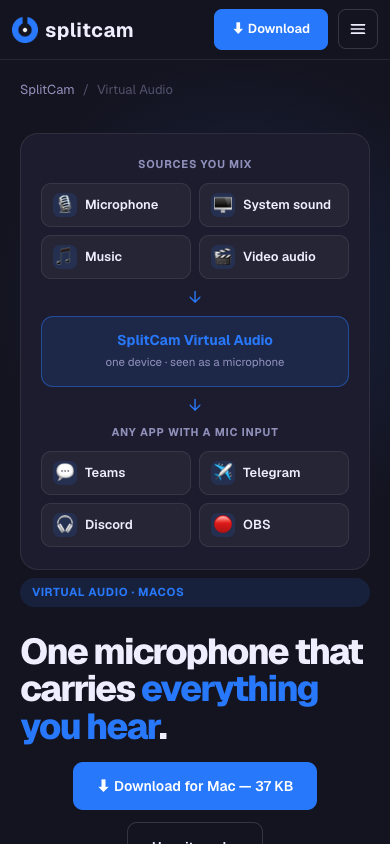
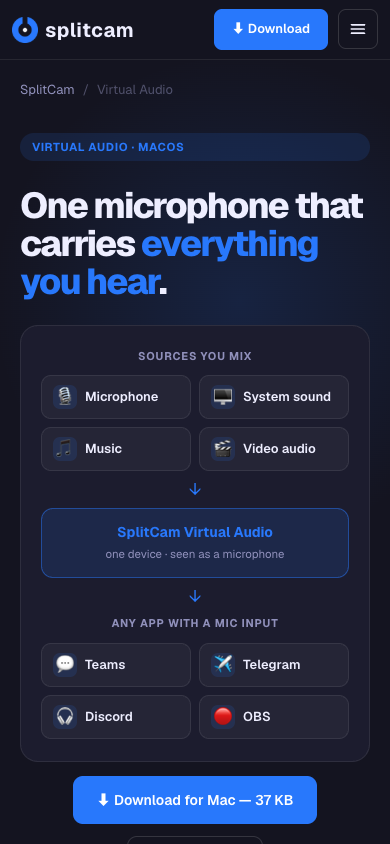
virtual-audio: put the hero visual below the headline on mobile
On mobile .vc-hero-content becomes display:contents and the hero children are ordered
explicitly — eyebrow(1), h1(2), visual(3), CTA(4). The new .va-vis had no order, so it
defaulted to 0 and rendered above everything: the headline sat 633px down the page while
the diagram led. Now order:3, matching .vc-orbit on /virtual-camera/ — measured H1 at
187px on both pages.

Changed region(s): [[0.0308, 0.154, 0.9538, 1.0]]

diff --git a/virtual-audio/index.html b/virtual-audio/index.html
@@ -403,6 +403,9 @@ footer{padding:48px 40px;border-top:1px solid var(--app-border);background:var(-
 .va-req-card p{margin:0;font-size:13px;line-height:1.6;color:var(--text-sub)}
 .va-note{margin-top:18px;padding:14px 16px;border-radius:12px;background:rgba(243,156,18,.08);border:1px solid rgba(243,156,18,.35);font-size:13.5px;line-height:1.65;color:var(--text-sub)}
 .va-note b{color:var(--text)}
+/* на мобильном hero раскрывается через display:contents — порядок задаётся явно,
+   как у .vc-orbit на /virtual-camera/: eyebrow(1) → H1(2) → визуал(3) → кнопки(4) */
+@media(max-width:900px){.va-vis{order:3;margin:8px auto 6px;width:100%}}
 
 code{font-family:'Geist Mono',ui-monospace,monospace;font-size:.92em;background:rgba(255,255,255,.06);border:1px solid var(--app-border);border-radius:5px;padding:1px 5px;color:var(--text)}
 </style>
